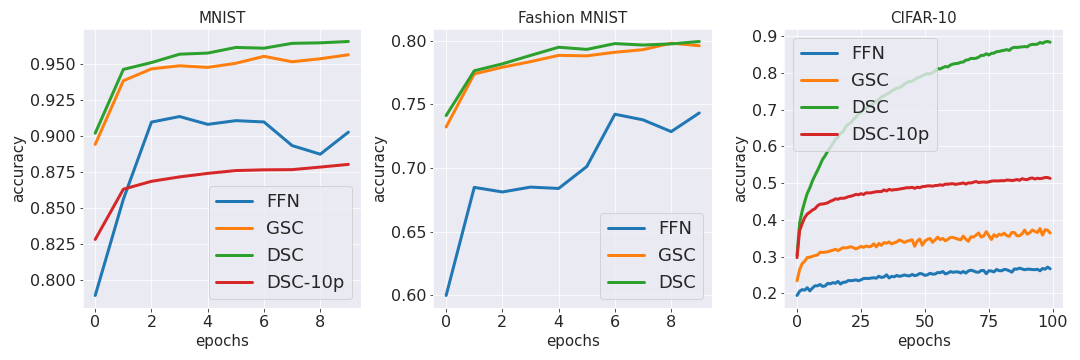
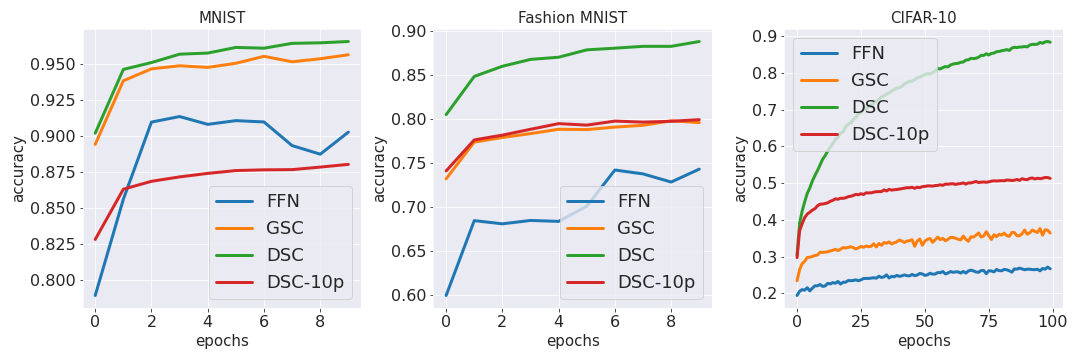
Update image

diff --git a/difflr/experiments/ffn/dsc_ffn/fashionmnist_ffn.py b/difflr/experiments/ffn/dsc_ffn/fashionmnist_ffn.py
@@ -18,13 +18,13 @@ def main():
     torch.manual_seed(0)
 
     config = {
-        'model_name': 'fashion_mnist_dsc_ffn_10p_10pTrain',
+        'model_name': 'fashion_mnist_dsc_ffn_100p_10pTrain',
         "num_classes": 10,
         'in_features': 784,
         'epochs': 10,
         'batch_size': 256,
-        'lr': 1e-1,
-        "train_p": 10,
+        'lr': 0.01,
+        "train_p": 100,
         "test_p": 100,
         'dnn_config':
             {
